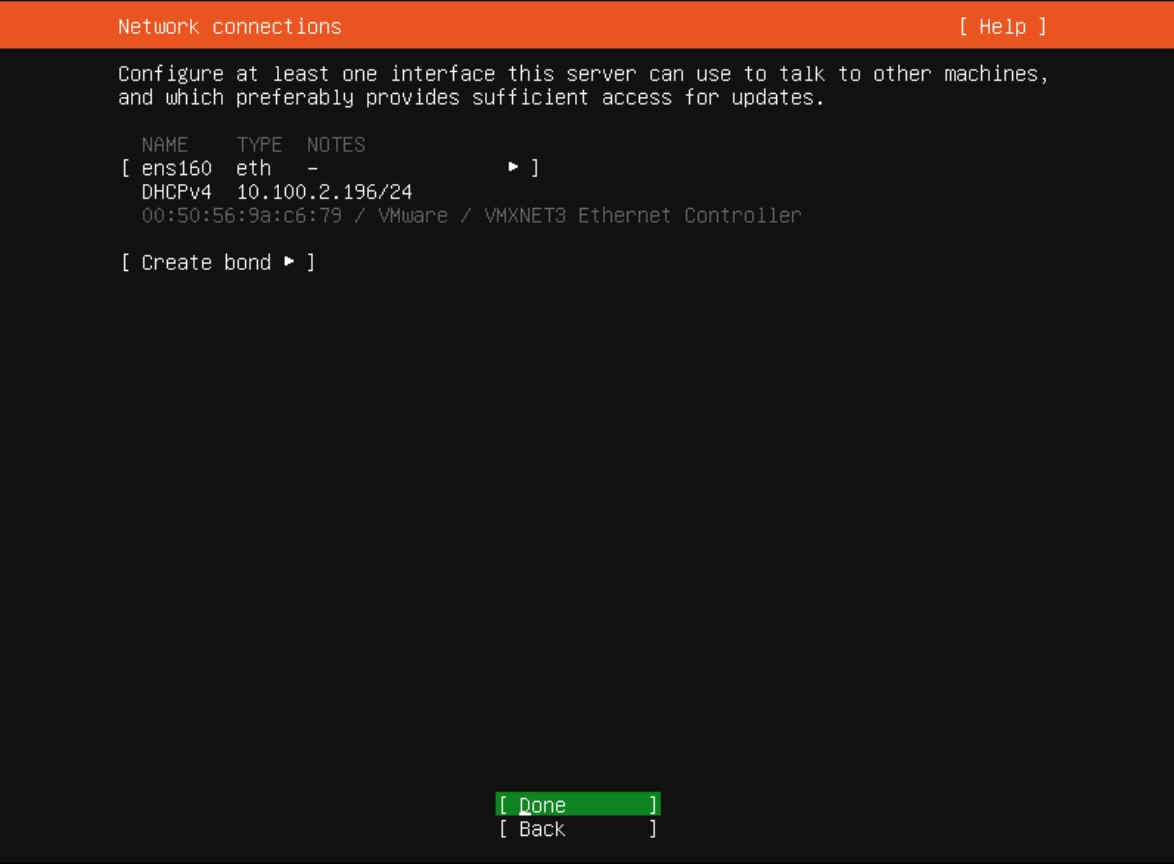
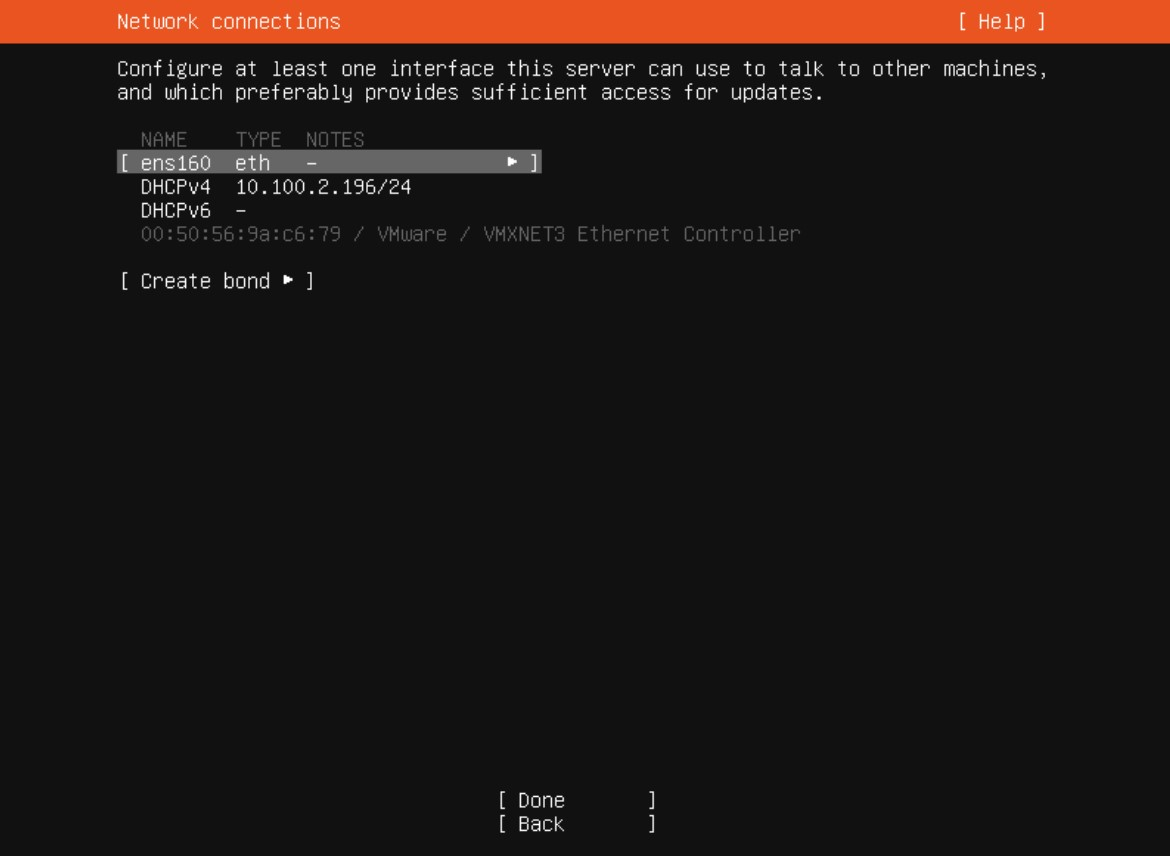
Added the installation of Ubuntu

Changed region(s): [[0.0, 0.0, 1.0, 0.1215], [0.0923, 0.1519, 0.6769, 0.3341], [0.4, 0.9112, 0.5846, 0.972]]

diff --git a/README.md b/README.md
@@ -24,6 +24,35 @@ Le menu final est un résumé de votre machine, vous vérifiez donc que vous ave
 
 Félicitations, vous avez créé votre serveur et vous pouvez maintenant installer Ubuntu.
 
+## Installation d’Ubuntu
+
+Si vous avez bien configuré votre machine virtuelle, quand vous la mettez sur tension un menu qui vous demande d’essayer ou installer Ubuntu sera affiché. Choisissez cette option et attendez que la sélection de langue apparaisse et sélectionnez une langue qui vous convient. C’est possible que l’installeur vous demande si vous aimeriez le mettre à jour. Cela n’est pas obligatoire, mais le choix ne changera pas grand-chose. Puis, sélectionnez le bon clavier, celui que vous utilisez d’habitude. Pour la prochaine étape, vous choisissez généralement « Ubuntu server », car la différence de taille n’est pas si grande, mais il y a des chances que l’instillation minimale vous convienne mieux.
+![Type d'installation](img/UbuntuServer.jpg)
+
+Le prochain menu est la configuration du réseau. Vous pouvez assigner une adresse IPv4 et IPv4 statique ou automatique à votre serveur ou les désactiver selon vos besoins. Dans mon cas, l’adressage d’IPv6 n’est pas disponible : mon adresse IPv6 n’a jamais été assignée.
+![Type d'adressage](img/IPv6Configuration.jpg)
+![Configuration du réseau](img/Reseau.jpg)
+
+Vous pouvez laisser le proxy vide si vous n’en avez pas besoin et vous pouvez laisser et, quant au miroir d’archive Ubuntu, vous pouvez ne rien changer à moins qu’il le faille.
+
+Pour la configuration de stockage, assurez-vous que « Set up this disk as an LMV group » est sélectionné et que vous utilisez le bon disque.
+![Configuration du stockage](img/ConfigureLVM.jpg)
+
+Puis vous confirmez la configuration du stockage et l’installation, même si le bouton est en rouge.
+![Résumé de la configuration](img/storageConfiguration.jpg)
+![Confirmation de l'installation](img/ConfirmationInstillation.jpg)
+
+Vous passez à la configuration du profil où vous remplissiez votre nom, pseudo et votre mot de passe. Choisissez aussi un nom de machine approprié.
+![Configuration du profil](img/ProfileSetup.jpg)
+
+Sur le prochain menu, vous vous assurez que « Install OpenSSH server » est coché et vous pouvez importer votre identité SSH si vous en avez besoin.
+![Configuration SSH](img/SSHSetup.jpg)
+
+Pour le menu final, vous ne cochez rien, à moins qu’il y ait un sevrer snap que vous voudriez utiliser et vous attendez l’installation.
+
+Après l’installation s’est terminée, vous déconnectez le lecteur CD/DVD et redémarrez le serveur. Si tout s’est bien passé, vous pouvez vous connecter et commencez à utiliser votre serveur.
+![Connexion intiale](img/ConnexionInitiale.jpg)
+
 ## Caractérisation de la machine serveur
 
 - Nom de la machine virtuelle et nom de la machine (hostname)
